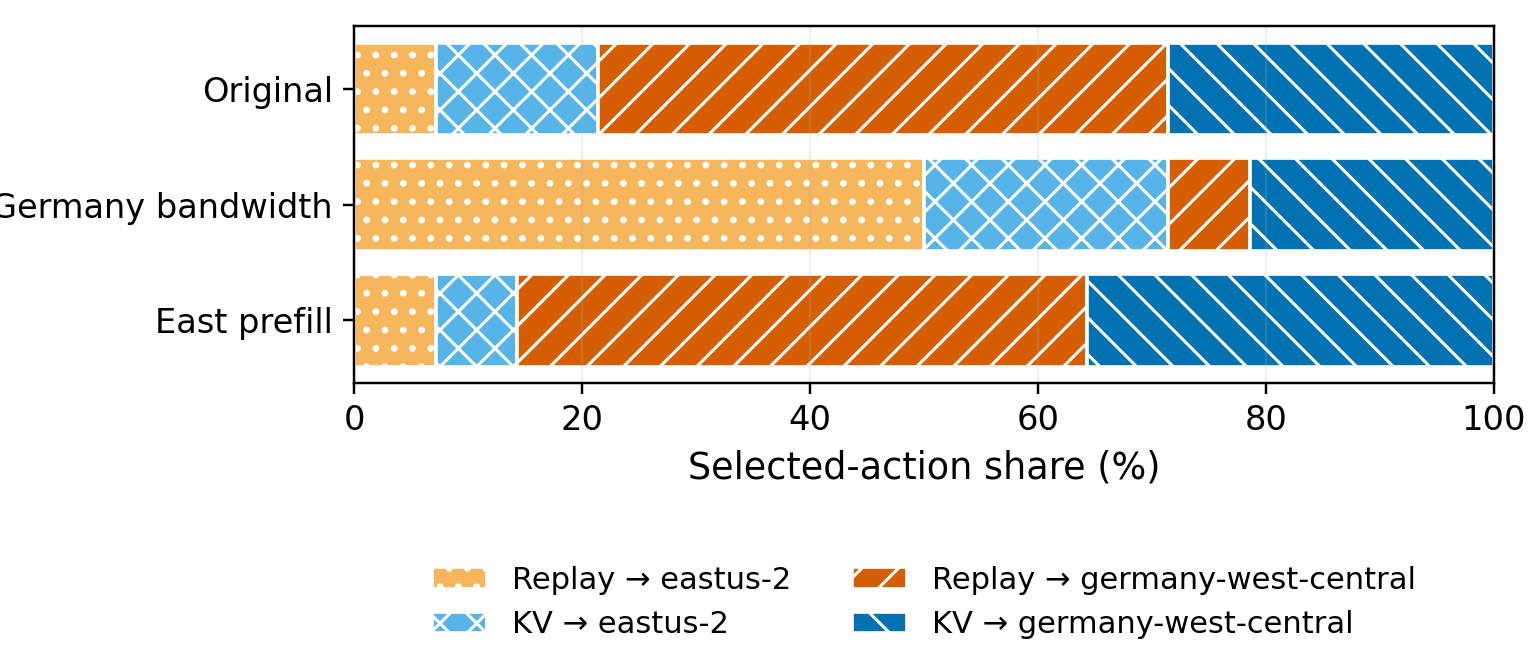
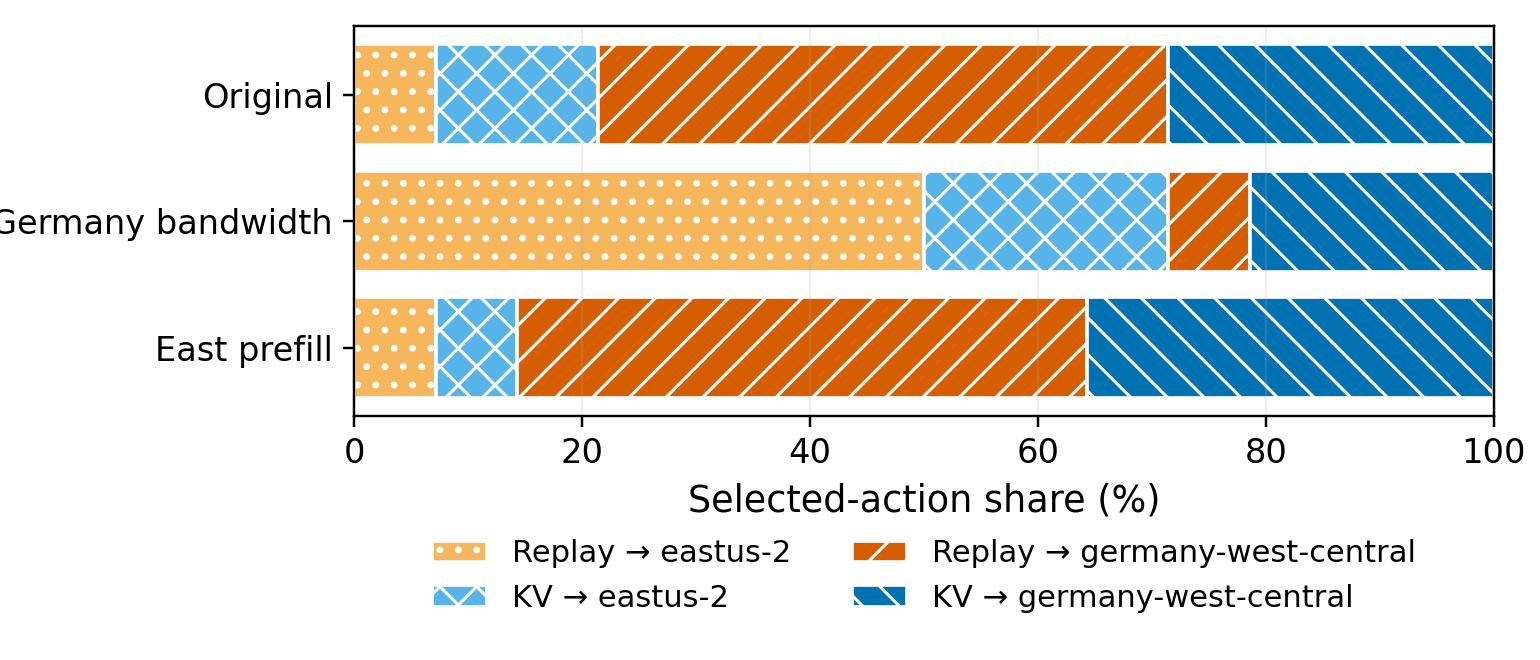
Tighten repair action legend spacing

diff --git a/agent-migrate/queue-haul/repair_plan_shift_campaign.py b/agent-migrate/queue-haul/repair_plan_shift_campaign.py
@@ -98,8 +98,8 @@ def _plot(rows, path):
     axis.xaxis.label.set_size(12)
     handles, labels = axis.get_legend_handles_labels()
     fig.legend(handles, labels, frameon=False, ncol=2, loc="lower center",
-               bbox_to_anchor=(.6, -.01), fontsize=10, handlelength=1.8)
-    fig.subplots_adjust(left=.23, right=.97, bottom=.42, top=.96)
+               bbox_to_anchor=(.6, .03), fontsize=10, handlelength=1.8)
+    fig.subplots_adjust(left=.23, right=.97, bottom=.37, top=.96)
     for suffix in ("png", "pdf"):
         fig.savefig(path.with_suffix(f".{suffix}"), dpi=plot_style.SAVE_DPI)
     plt.close(fig)
